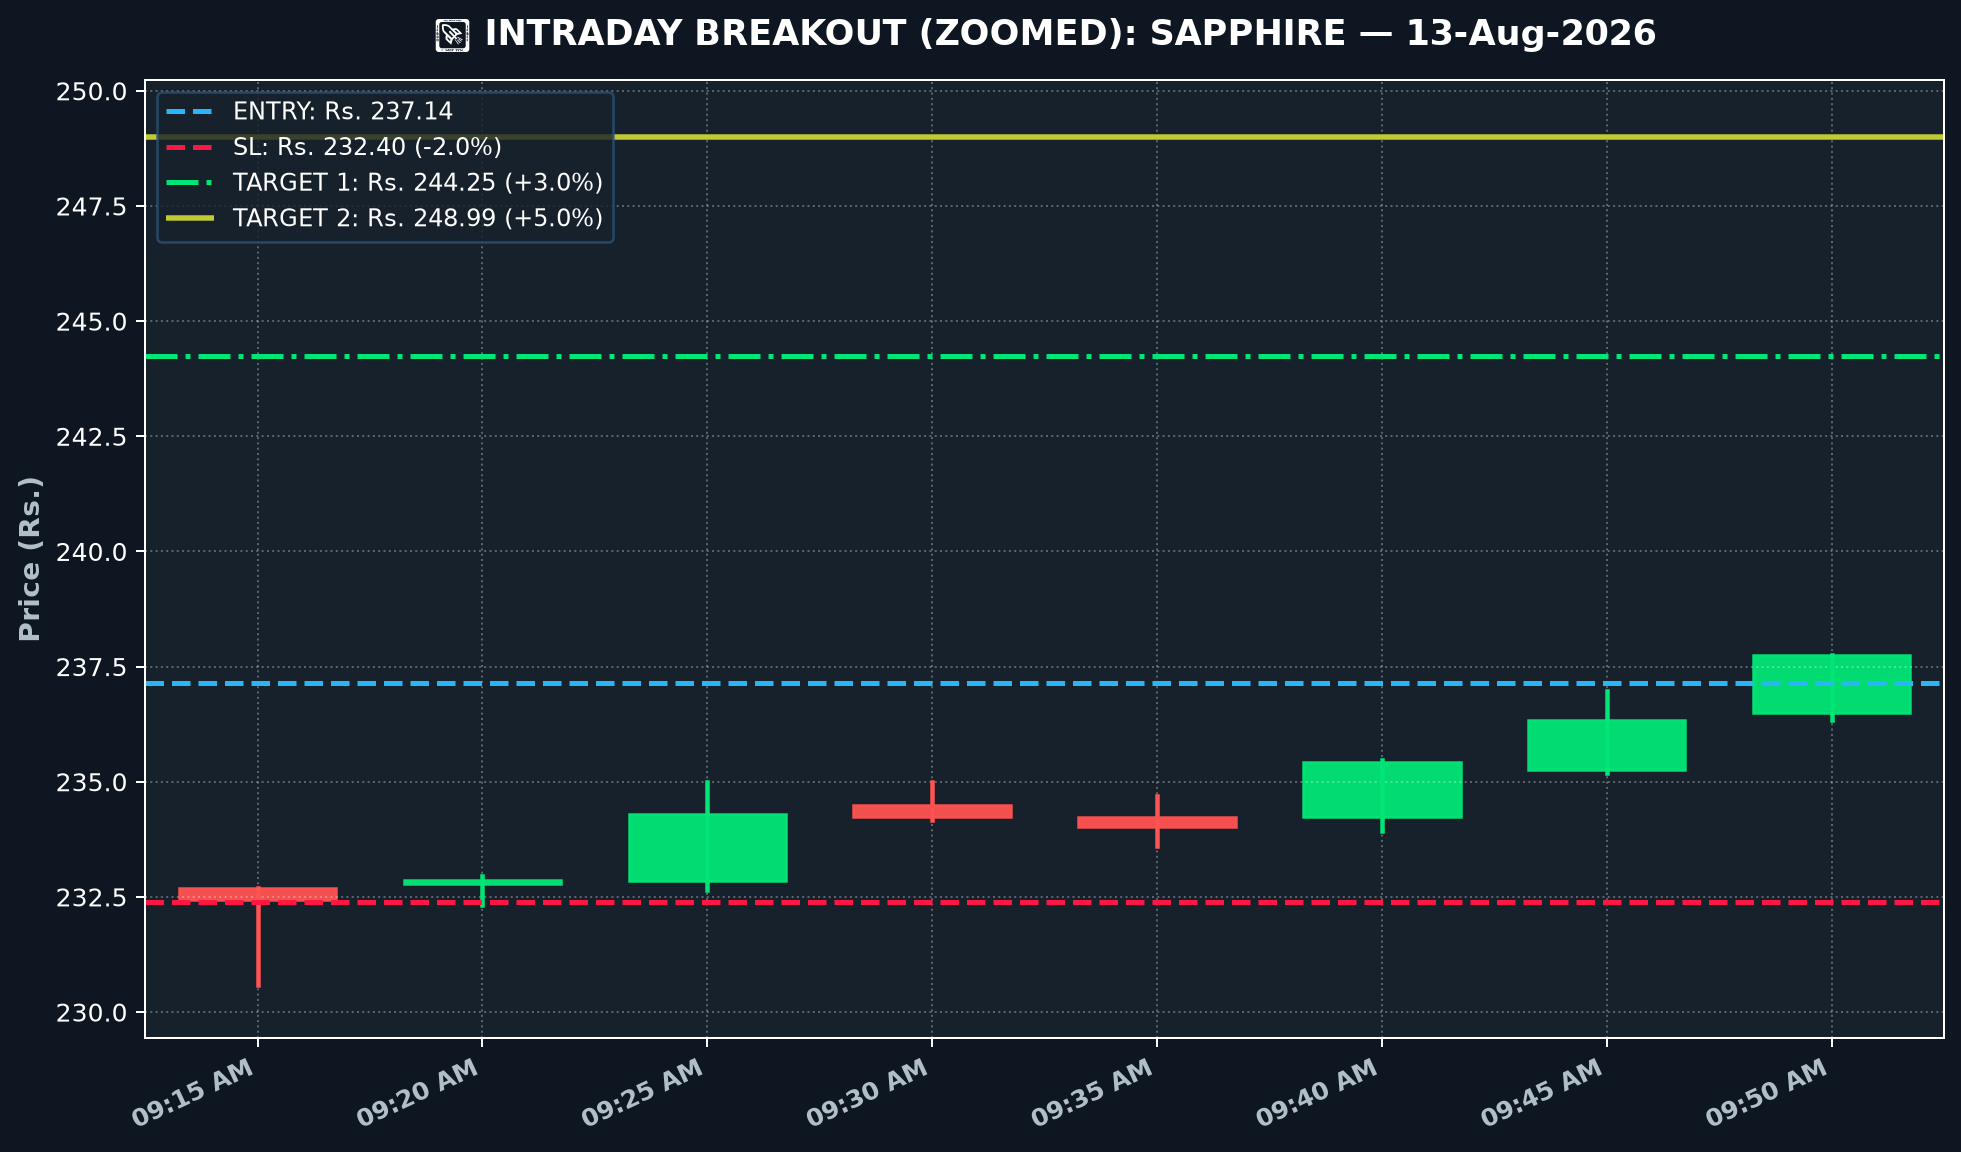
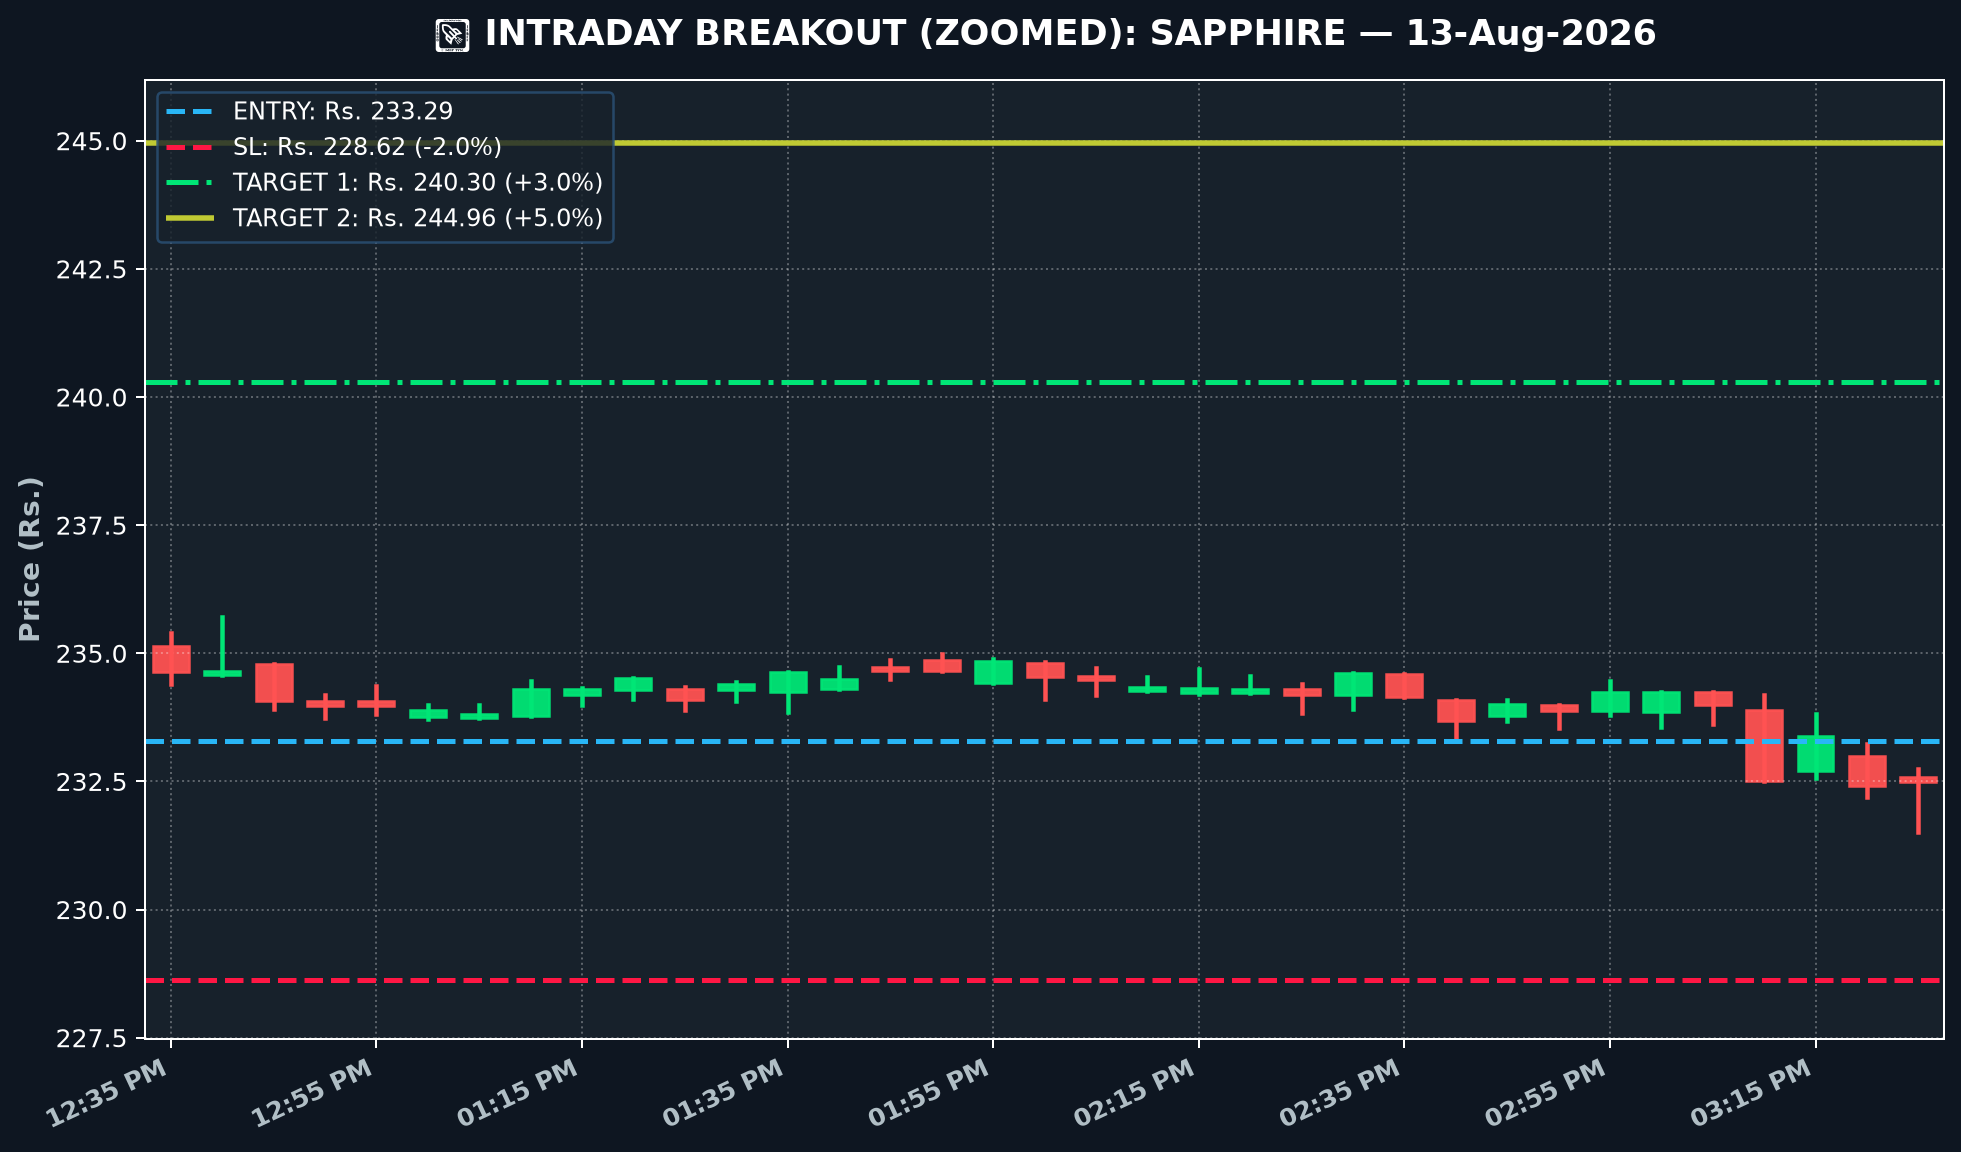
Fix requirements.txt and remove dist binaries

diff --git a/gui_launcher.py b/gui_launcher.py
@@ -1,0 +1,138 @@
+"""
+Sleek Desktop GUI Application & Launcher for NSE Intraday Stock Pick Bot.
+Provides 1-click execution for Live Market Scan, Telegram Bot Listener, and Today's Stock Picks display.
+"""
+import sys
+import os
+import threading
+import subprocess
+import tkinter as tk
+from tkinter import ttk, messagebox, scrolledtext
+
+# Ensure working directory is set to app root
+app_dir = os.path.dirname(os.path.abspath(__file__))
+os.chdir(app_dir)
+sys.path.insert(0, app_dir)
+
+import main as main_orchestrator
+import logger
+from datetime import datetime
+
+class IntradayBotGUI:
+    def __init__(self, root):
+        self.root = root
+        self.root.title("NSE Intraday Stock Pick Bot 🚀")
+        self.root.geometry("780x560")
+        self.root.configure(bg="#0E1621")
+
+        # Style configuration
+        style = ttk.Style()
+        style.theme_use('clam')
+        style.configure("TFrame", background="#0E1621")
+        style.configure("TLabel", background="#0E1621", foreground="#FFFFFF", font=("Segoe UI", 10))
+        style.configure("Header.TLabel", font=("Segoe UI", 14, "bold"), foreground="#00E676")
+        style.configure("TButton", font=("Segoe UI", 10, "bold"), background="#1F4E78", foreground="#FFFFFF")
+        style.map("TButton", background=[("active", "#29B6F6")])
+
+        # Header Frame
+        header_frame = ttk.Frame(self.root, padding=15)
+        header_frame.pack(fill=tk.X)
+
+        title_lbl = ttk.Label(header_frame, text="🚀 NSE INTRADAY STOCK PICK BOT", style="Header.TLabel")
+        title_lbl.pack(anchor="w")
+
+        sub_lbl = ttk.Label(header_frame, text="NIFTY Relative Strength Outperformance Strategy + Market Regime Filter", font=("Segoe UI", 9), foreground="#8E99A2")
+        sub_lbl.pack(anchor="w", pady=(2, 0))
+
+        # Control Buttons Frame
+        btn_frame = ttk.Frame(self.root, padding=15)
+        btn_frame.pack(fill=tk.X)
+
+        self.run_btn = tk.Button(
+            btn_frame, 
+            text="⚡ RUN LIVE MARKET SCAN NOW", 
+            command=self.start_scan_thread,
+            bg="#00E676", 
+            fg="#0E1621", 
+            font=("Segoe UI", 11, "bold"),
+            activebackground="#B2FF59",
+            padx=15, 
+            pady=8,
+            cursor="hand2"
+        )
+        self.run_btn.pack(side=tk.LEFT, padx=(0, 10))
+
+        self.bot_btn = tk.Button(
+            btn_frame, 
+            text="🤖 START TELEGRAM BOT LISTENER", 
+            command=self.start_bot_listener,
+            bg="#29B6F6", 
+            fg="#0E1621", 
+            font=("Segoe UI", 11, "bold"),
+            activebackground="#80D8FF",
+            padx=15, 
+            pady=8,
+            cursor="hand2"
+        )
+        self.bot_btn.pack(side=tk.LEFT)
+
+        # Output Log Box
+        log_frame = ttk.Frame(self.root, padding=15)
+        log_frame.pack(fill=tk.BOTH, expand=True)
+
+        log_lbl = ttk.Label(log_frame, text="📋 Execution Output & Picks Log:", font=("Segoe UI", 10, "bold"))
+        log_lbl.pack(anchor="w", pady=(0, 5))
+
+        self.log_box = scrolledtext.ScrolledText(
+            log_frame, 
+            wrap=tk.WORD, 
+            bg="#17212B", 
+            fg="#00E676", 
+            font=("Consolas", 10),
+            insertbackground="#FFFFFF",
+            relief=tk.FLAT
+        )
+        self.log_box.pack(fill=tk.BOTH, expand=True)
+
+        self.log("Ready. Click 'RUN LIVE MARKET SCAN NOW' to scan NIFTY 500 stocks & send Telegram alerts.\n" + "━"*60)
+
+    def log(self, text):
+        self.log_box.insert(tk.END, text + "\n")
+        self.log_box.see(tk.END)
+
+    def start_scan_thread(self):
+        self.run_btn.config(state=tk.DISABLED, bg="#555555")
+        self.log("\n[⚡ STARTING LIVE MARKET SCAN...]")
+        threading.Thread(target=self.run_scan, daemon=True).start()
+
+    def run_scan(self):
+        try:
+            summary = main_orchestrator.run_pipeline()
+            picks_count = summary.get('total_picks', 0)
+            pnl = summary.get('daily_pnl', 0.0)
+
+            self.log(f"✅ Live scan completed!")
+            self.log(f"▸ Total Picks Found: {picks_count}")
+            self.log(f"▸ Daily Running P&L: Rs. {pnl:,.2f}")
+            self.log("▸ All stock picks + zoomed 5m candlestick charts sent to Telegram!")
+            self.log("━"*60)
+        except Exception as e:
+            self.log(f"⚠ Error running scan: {e}")
+        finally:
+            self.root.after(0, lambda: self.run_btn.config(state=tk.NORMAL, bg="#00E676"))
+
+    def start_bot_listener(self):
+        self.log("\n[🤖 STARTING TELEGRAM BOT LISTENER (Interactive Commands Active)...]")
+        try:
+            subprocess.Popen([sys.executable, "telegram_bot.py"], cwd=app_dir)
+            self.log("✅ Telegram Bot listener launched in background. Try sending /stock on Telegram!")
+        except Exception as e:
+            self.log(f"⚠ Error launching bot listener: {e}")
+
+def main():
+    root = tk.Tk()
+    app = IntradayBotGUI(root)
+    root.mainloop()
+
+if __name__ == '__main__':
+    main()

diff --git a/chart_generator.py b/chart_generator.py
@@ -2,11 +2,15 @@
 High-Precision Zoomed Intraday Candlestick Chart Generator
 Renders zoomed-in 5m intraday candles with bold Entry, SL, T1, T2 level lines and crisp callouts.
 """
-import os
-import matplotlib
-matplotlib.use('Agg')
-import matplotlib.pyplot as plt
-import matplotlib.dates as mdates
+try:
+    import matplotlib
+    matplotlib.use('Agg')
+    import matplotlib.pyplot as plt
+    import matplotlib.dates as mdates
+    HAS_MATPLOTLIB = True
+except ImportError:
+    HAS_MATPLOTLIB = False
+
 import pandas as pd
 import yfinance as yf
 
@@ -14,6 +18,9 @@ def generate_candlestick_chart(pick: dict) -> str:
     """
     Generates a zoomed-in, high-definition 5m intraday dark mode candlestick chart.
     """
+    if not HAS_MATPLOTLIB:
+        print("Warning: matplotlib not installed. Skipping chart generation.")
+        return ""
     symbol = pick.get('symbol', 'STOCK')
     ticker = pick.get('ticker', f"{symbol}.NS")
     entry = pick.get('entry', 0.0)
